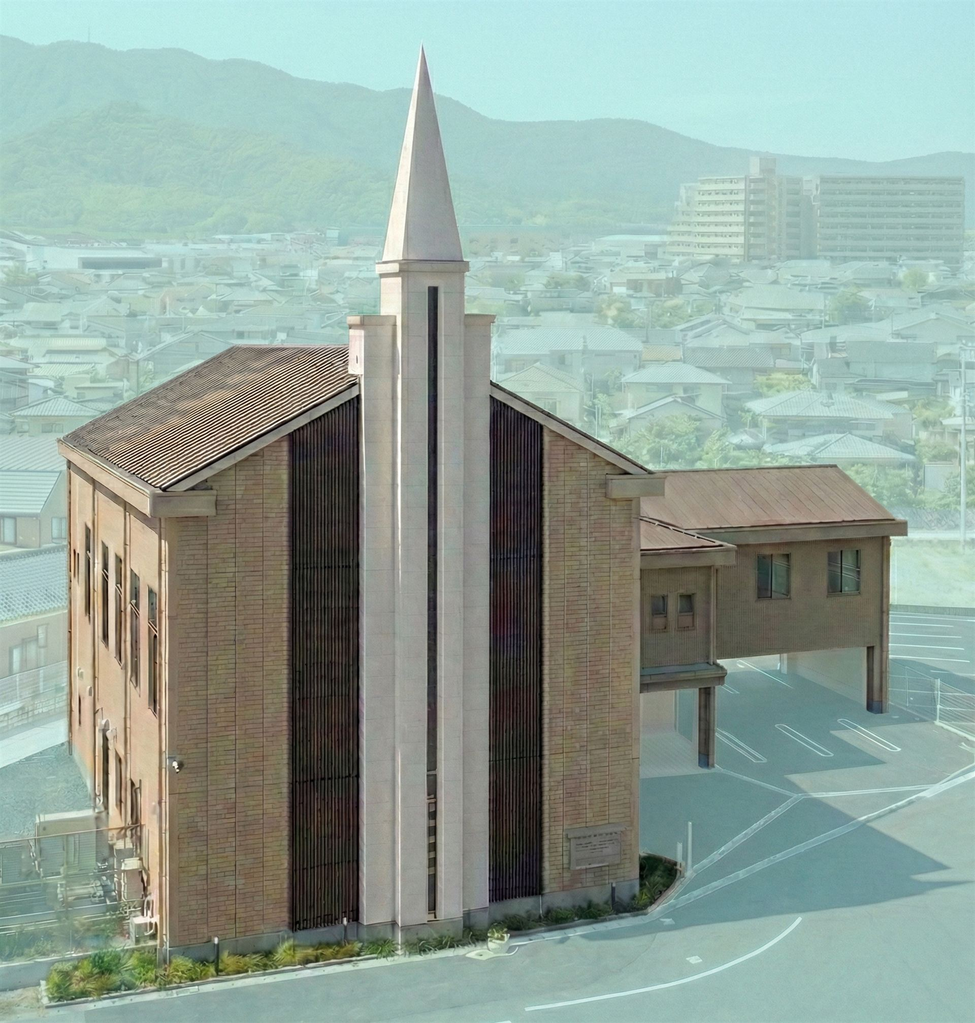
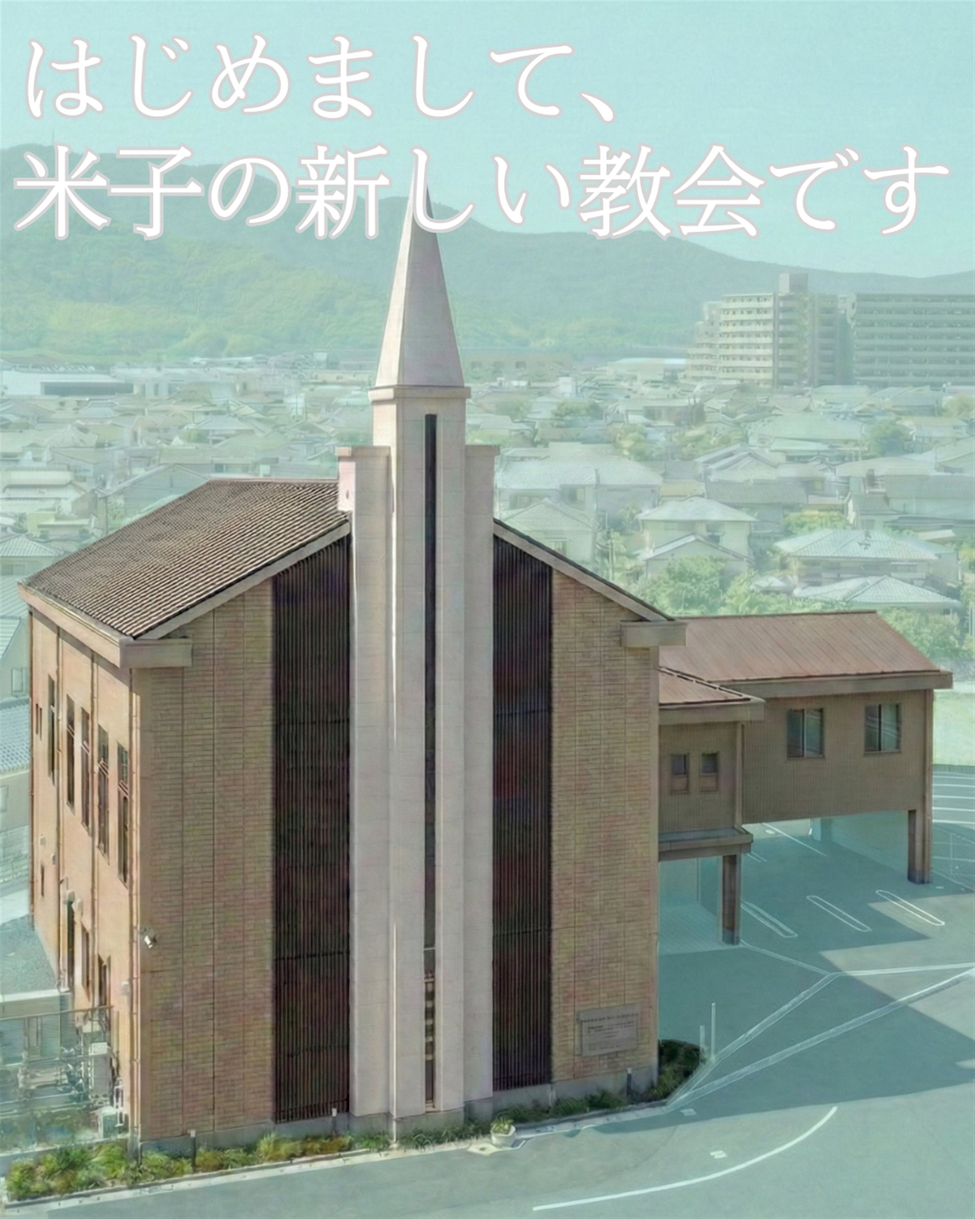
Update hero image with text overlay and hide h1

diff --git a/index.html b/index.html
@@ -630,12 +630,12 @@
     <!-- ========== ヒーローセクション（フルスクリーン） ========== -->
     <section class="hero">
         <div class="hero-image-container">
-            <img src="./hero-image-web.jpg" alt="米子ワード新会堂の美しい外観"
-                class="hero-image">
+            <img src="./hero-image-web.jpg" alt="はじめまして、米子の新しい教会です" class="hero-image">
         </div>
         <div class="hero-overlay"></div>
         <div class="hero-content">
-            <h1>はじめまして、<br>米子の新しい教会です</h1>
+            <!-- テキストは画像に含まれているため非表示 -->
+            <h1 style="display: none;">はじめまして、米子の新しい教会です</h1>
             <p>この街で歩んで50余年<br>新たな気持ちでご挨拶させてください</p>
             <div class="hero-date">2026年4月17日(金)〜19日(日)</div>
             <a href="#access" class="cta-button">アクセス・地図を見る</a>
